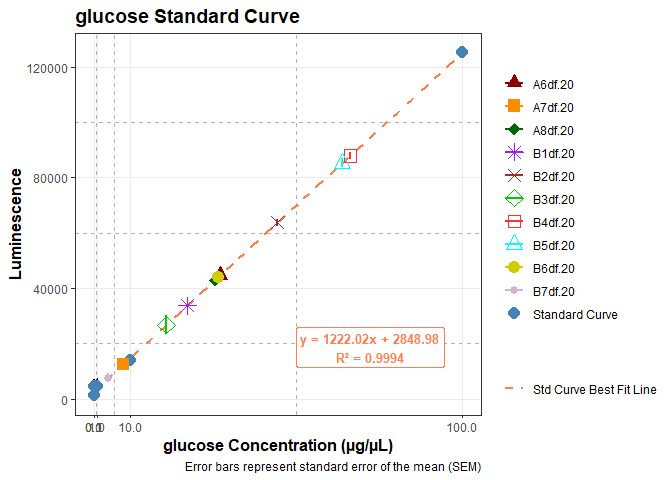
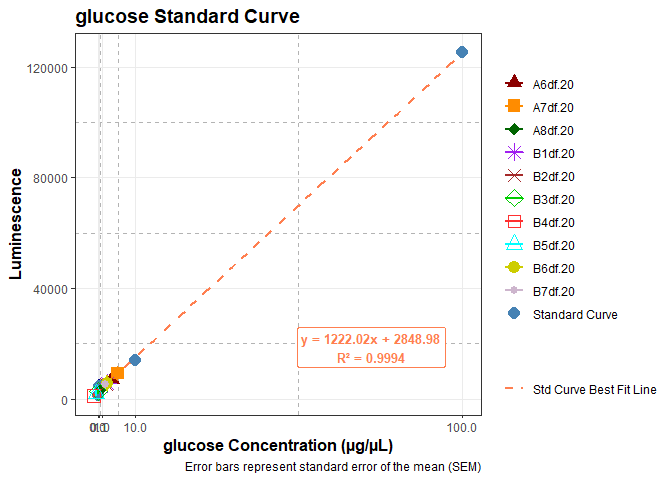
Fix glucose sample columns

diff --git a/Glycogen/code/Gen5-20260204-mgig-glycogenglo.md b/Glycogen/code/Gen5-20260204-mgig-glycogenglo.md
@@ -762,7 +762,7 @@ glu_row_H <- as.numeric(raw_luminescence[8, 7:11])  # Row 8 (H)
 
 ``` r
 #Extract glucose sample data - wells A6-E6
-glu_sample_cols1 <- c(1,2,3)
+glu_sample_cols1 <- c(7,8,9)
 glu_A6_dilution <- as.numeric(gsub(".*-df\\.", "", plate_layout[1, 1]))
 glu_A6_luminescence <- as.numeric(raw_luminescence[1, glu_sample_cols1])
 
@@ -779,7 +779,7 @@ glu_B2_dilution <- as.numeric(gsub(".*-df\\.", "", plate_layout[5, 1]))
 glu_B2_luminescence <- as.numeric(raw_luminescence[5, glu_sample_cols1])
 
 
-glu_sample_cols2 <- c(4,5,6)
+glu_sample_cols2 <- c(10,11,12)
 glu_B3_dilution <- as.numeric(gsub(".*-df\\.", "", plate_layout[1, 4]))
 glu_B3_luminescence <- as.numeric(raw_luminescence[1, glu_sample_cols2])
 
@@ -856,8 +856,8 @@ glu_A6_mean_lum
 glu_A6_mean_conc
 ```
 
-    [1] 44760.33
-    [1] 34.29686
+    [1] 7276.667
+    [1] 3.623261
 
 ``` r
 # Create sample data frame
@@ -890,8 +890,8 @@ glu_A7_mean_lum
 glu_A7_mean_conc
 ```
 
-    [1] 12494.67
-    [1] 7.89325
+    [1] 9241
+    [1] 5.230713
 
 ``` r
 # Create sample data frame
@@ -924,8 +924,8 @@ glu_A8_mean_lum
 glu_A8_mean_conc
 ```
 
-    [1] 43034.67
-    [1] 32.88472
+    [1] 3971.333
+    [1] 0.9184437
 
 ``` r
 # Create sample data frame
@@ -958,8 +958,8 @@ glu_B1_mean_lum
 glu_B1_mean_conc
 ```
 
-    [1] 33789.67
-    [1] 25.31936
+    [1] 5695
+    [1] 2.328953
 
 ``` r
 # Create sample data frame
@@ -992,8 +992,8 @@ glu_B2_mean_lum
 glu_B2_mean_conc
 ```
 
-    [1] 63779
-    [1] 49.8602
+    [1] 5491.333
+    [1] 2.162289
 
 ``` r
 # Create sample data frame
@@ -1026,8 +1026,8 @@ glu_B3_mean_lum
 glu_B3_mean_conc
 ```
 
-    [1] 26800.67
-    [1] 19.60012
+    [1] 2780.667
+    [1] -0.05590157
 
 ``` r
 # Create sample data frame
@@ -1060,8 +1060,8 @@ glu_B4_mean_lum
 glu_B4_mean_conc
 ```
 
-    [1] 87868
-    [1] 69.57269
+    [1] 1274.667
+    [1] -1.28829
 
 ``` r
 # Create sample data frame
@@ -1094,8 +1094,8 @@ glu_B5_mean_lum
 glu_B5_mean_conc
 ```
 
-    [1] 85188.67
-    [1] 67.38014
+    [1] 2007
+    [1] -0.6890078
 
 ``` r
 # Create sample data frame
@@ -1128,8 +1128,8 @@ glu_B6_mean_lum
 glu_B6_mean_conc
 ```
 
-    [1] 43945
-    [1] 33.62966
+    [1] 5714.667
+    [1] 2.345047
 
 ``` r
 # Create sample data frame
@@ -1162,8 +1162,8 @@ glu_B7_mean_lum
 glu_B7_mean_conc
 ```
 
-    [1] 7633
-    [1] 3.914856
+    [1] 5246.333
+    [1] 1.961801
 
 ``` r
 # Create the plot
@@ -1311,25 +1311,25 @@ for (i in 1:nrow(glucose_summary_data)) {
 ```
 
       glu_A6_dilution_factor glu_A6_mean_luminescence glu_A6_se glu_A6_conc   label
-    1                     20                 44760.33  315.2361    34.29686 A6df.20
+    1                     20                 7276.667  1515.618    3.623261 A6df.20
       glu_A7_dilution_factor glu_A7_mean_luminescence glu_A7_se glu_A7_conc   label
-    1                     20                 12494.67  643.0154     7.89325 A7df.20
+    1                     20                     9241  2374.835    5.230713 A7df.20
       glu_A8_dilution_factor glu_A8_mean_luminescence glu_A8_se glu_A8_conc   label
-    1                     20                 43034.67   741.899    32.88472 A8df.20
+    1                     20                 3971.333  1735.036   0.9184437 A8df.20
       glu_B1_dilution_factor glu_B1_mean_luminescence glu_B1_se glu_B1_conc   label
-    1                     20                 33789.67  395.1895    25.31936 B1df.20
+    1                     20                     5695  1505.781    2.328953 B1df.20
       glu_B2_dilution_factor glu_B2_mean_luminescence glu_B2_se glu_B2_conc   label
-    1                     20                    63779  1239.057     49.8602 B2df.20
+    1                     20                 5491.333  1278.844    2.162289 B2df.20
       glu_B3_dilution_factor glu_B3_mean_luminescence glu_B3_se glu_B3_conc   label
-    1                     20                 26800.67  3455.881    19.60012 B3df.20
+    1                     20                 2780.667  1156.923 -0.05590157 B3df.20
       glu_B4_dilution_factor glu_B4_mean_luminescence glu_B4_se glu_B4_conc   label
-    1                     20                    87868  1350.865    69.57269 B4df.20
+    1                     20                 1274.667  397.8711    -1.28829 B4df.20
       glu_B5_dilution_factor glu_B5_mean_luminescence glu_B5_se glu_B5_conc   label
-    1                     20                 85188.67  1627.387    67.38014 B5df.20
+    1                     20                     2007  1103.357  -0.6890078 B5df.20
       glu_B6_dilution_factor glu_B6_mean_luminescence glu_B6_se glu_B6_conc   label
-    1                     20                    43945  1416.536    33.62966 B6df.20
+    1                     20                 5714.667  3007.482    2.345047 B6df.20
       glu_B7_dilution_factor glu_B7_mean_luminescence glu_B7_se glu_B7_conc   label
-    1                     20                     7633   1673.57    3.914856 B7df.20
+    1                     20                 5246.333  1359.649    1.961801 B7df.20
     glucose Standard Curve Summary:
     ==================================================
 
@@ -1350,25 +1350,25 @@ tab <- as.table(tab)
 tab
 ```
 
-       Dilution factor Luminescence Calculated glucose (ug/uL)
-    A6       20.000000 44760.333333                  34.296863
-    A7       20.000000 12494.666667                   7.893250
-    A8       20.000000 43034.666667                  32.884717
-    B1       20.000000 33789.666667                  25.319356
-    B2       20.000000 63779.000000                  49.860202
-    B3       20.000000 26800.666667                  19.600124
-    B4       20.000000 87868.000000                  69.572691
-    B5       20.000000 85188.666667                  67.380142
-    B6       20.000000 43945.000000                  33.629660
-    B7       20.000000  7633.000000                   3.914856
+       Dilution factor  Luminescence Calculated glucose (ug/uL)
+    A6     20.00000000 7276.66666667                 3.62326125
+    A7     20.00000000 9241.00000000                 5.23071280
+    A8     20.00000000 3971.33333333                 0.91844374
+    B1     20.00000000 5695.00000000                 2.32895315
+    B2     20.00000000 5491.33333333                 2.16228882
+    B3     20.00000000 2780.66666667                -0.05590157
+    B4     20.00000000 1274.66666667                -1.28829019
+    B5     20.00000000 2007.00000000                -0.68900781
+    B6     20.00000000 5714.66666667                 2.34504676
+    B7     20.00000000 5246.33333333                 1.96180064
        Total glucose (ug/uL)
-    A6            685.937258
-    A7            157.865010
-    A8            657.694337
-    B1            506.387129
-    B2            997.204034
-    B3            392.002480
-    B4           1391.453826
-    B5           1347.602832
-    B6            672.593200
-    B7             78.297113
+    A6           72.46522502
+    A7          104.61425605
+    A8           18.36887483
+    B1           46.57906309
+    B2           43.24577649
+    B3           -1.11803148
+    B4          -25.76580378
+    B5          -13.78015620
+    B6           46.90093529
+    B7           39.23601273
